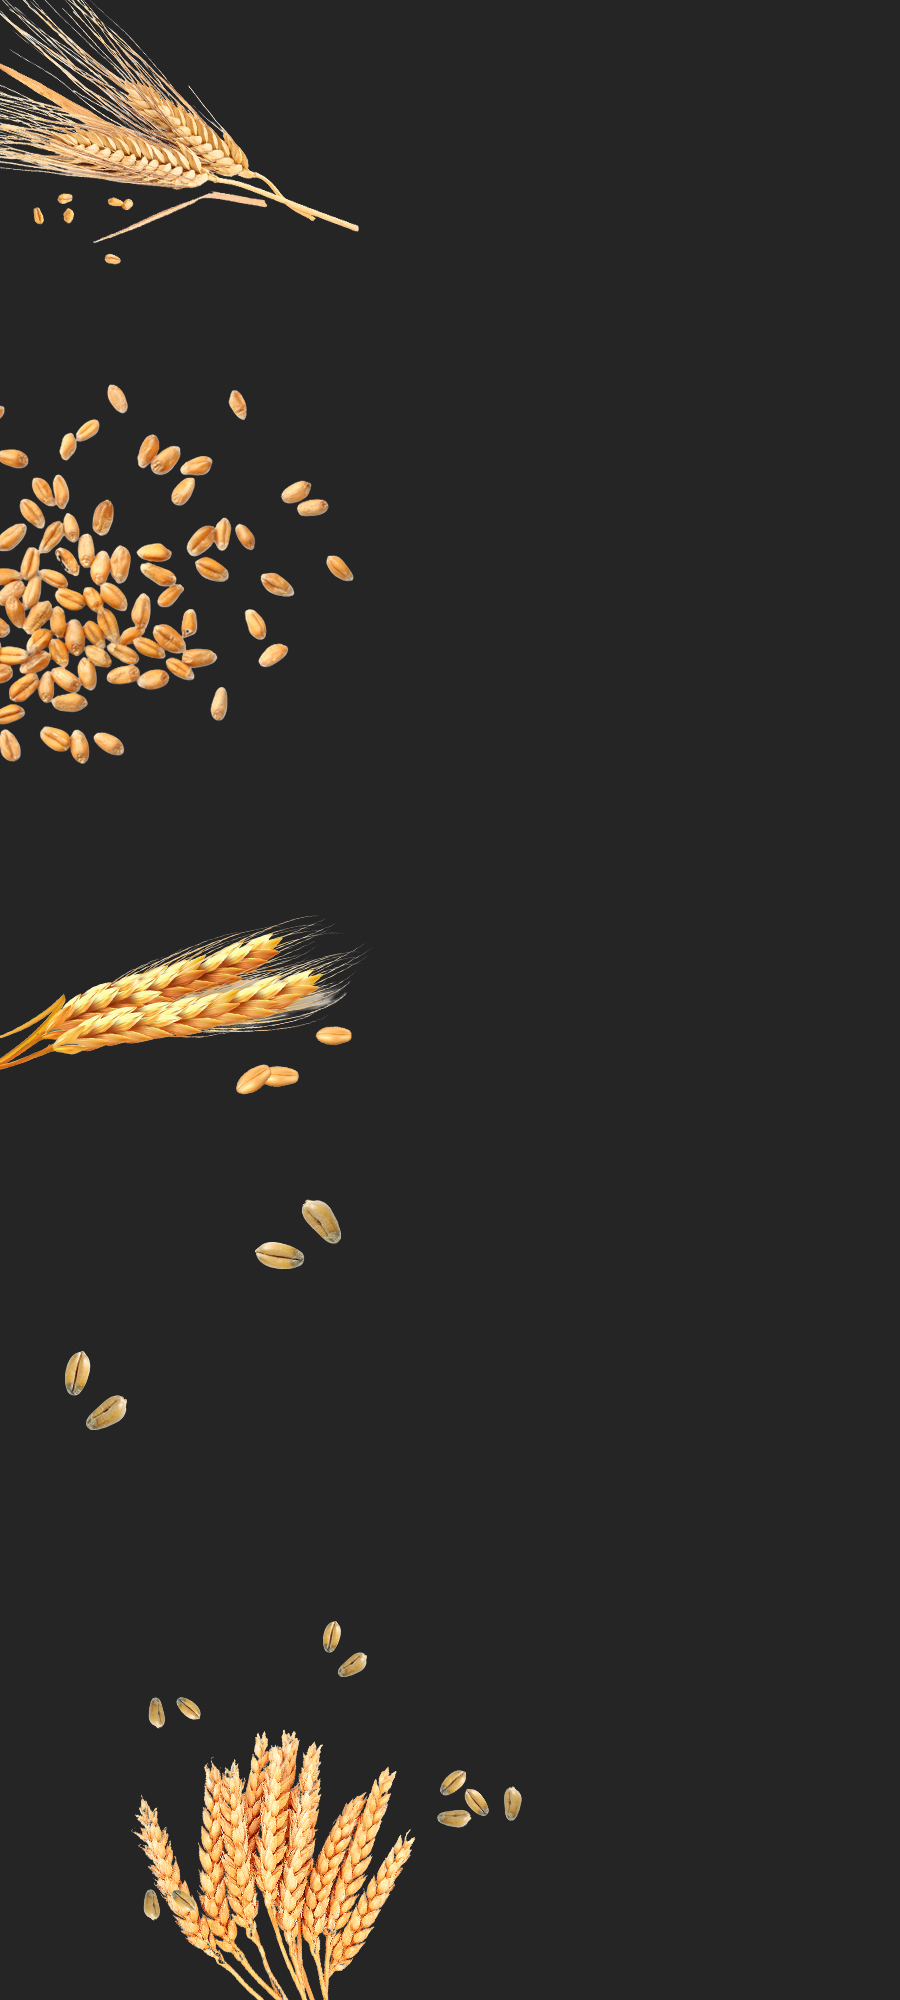
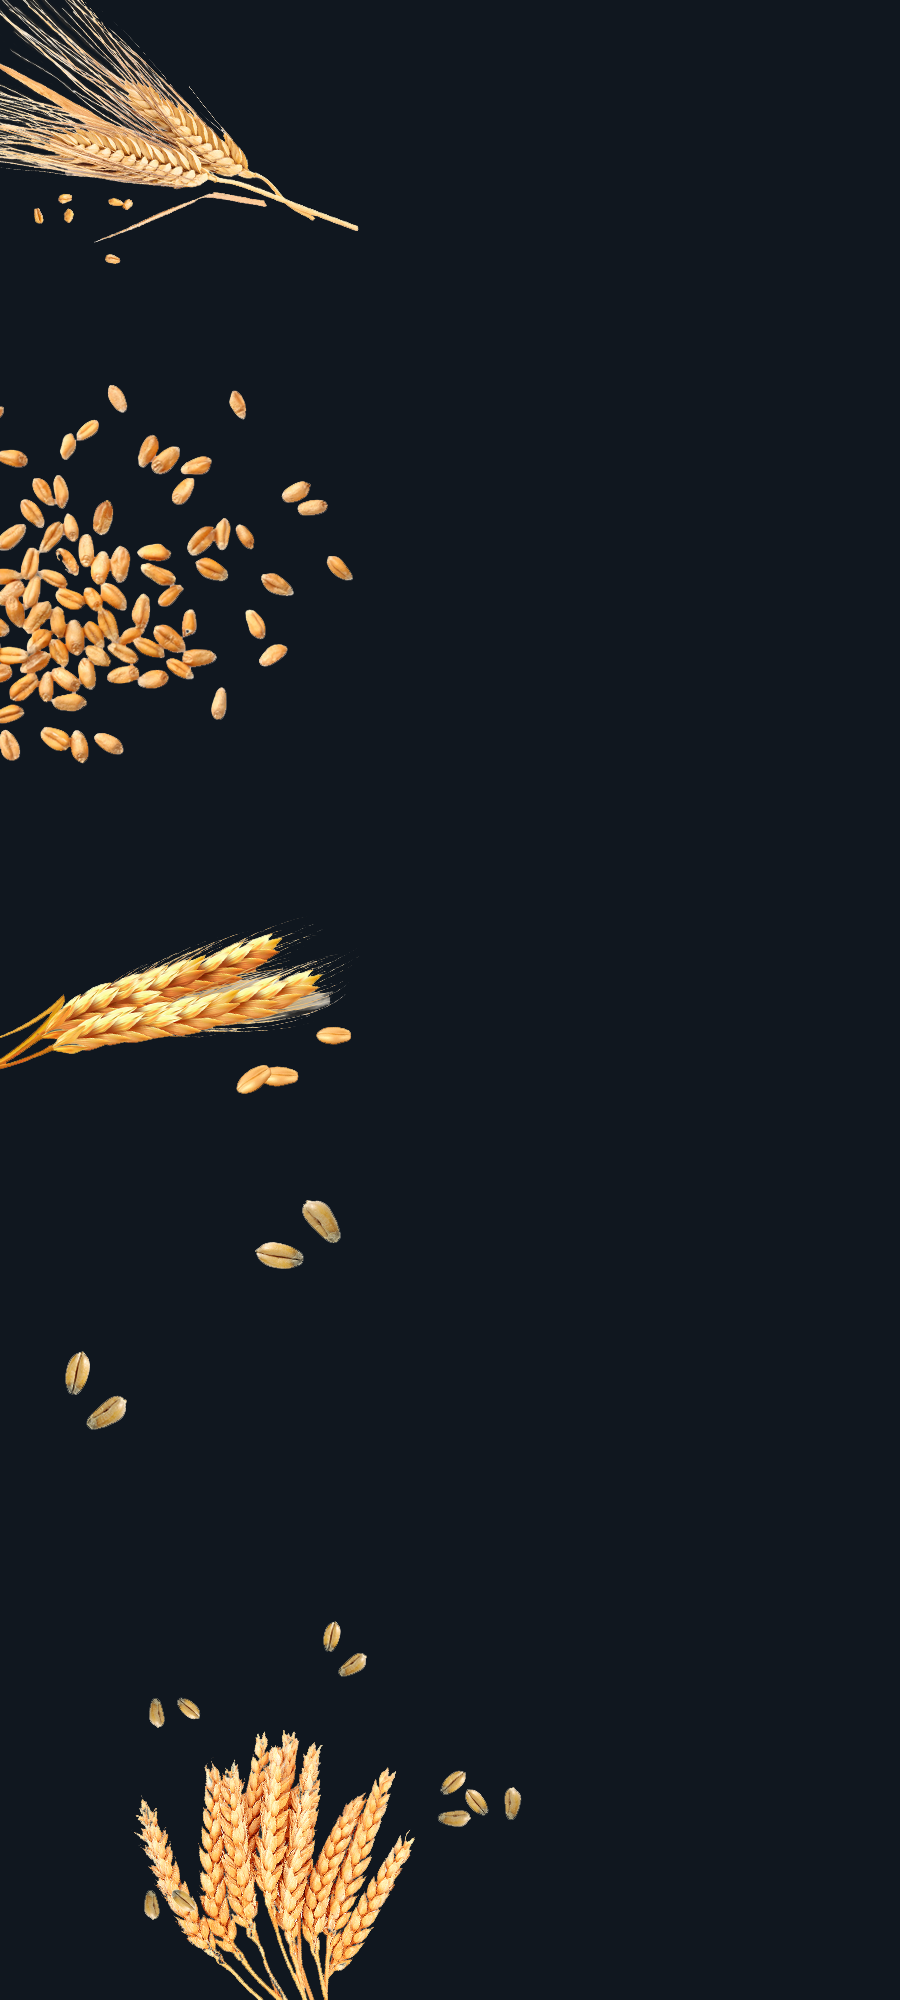
big edit

diff --git a/index.html b/index.html
@@ -145,7 +145,7 @@
 		<div class="container">
 			<div class="why__main__block">
 			<div class="why__text">
-				<div class="why__title">Почему иногда бывает так сложно выбирать  сельскохозяйственную технику?<br> - Потому что никто не предлагает то, что нужно конкретно вам.<br><br>
+				<div class="why__title">Почему иногда бывает так сложно выбирать  сельскохозяйственную технику?<br> Потому что никто не предлагает то, что нужно конкретно вам.<br><br>
 					Давайте исправлять
 				</div>
 				<div class="why__blocks">	
@@ -191,12 +191,13 @@
 	</div>
 	<!-- why end -->
 	<!-- main -->
+
 	<div class="main">
+			<div class="main__title center lime notgigantic" id="goto"><b>
+					Но давайте сначала разберем, <br> почему эти тележки для жатки идеальны <br>по соотношению цены и качества.
+				</b></div>	<br>
 		<div class="container">
-				<div class="main__title center lime notgigantic" id="goto"><b>
-					Но давайте сначала разберем,<br> почему эти тележки для жатки идеальны по соотношению цены и качества.
-				</div>	
-				<div class="main__title center bold big">Вы тратите миллионы на полный комплект сельхозтехники: комбайны, тракторы, жатки и т.д. Не говоря уже об удобрениях, зарплатах и налогах. <br>   Поэтому, мы понимаем, что за тележку для жатки - вам не хочется переплачивать. Она должна быть простой, доступной, но абсолютно надежной. Помня об этом, мы создавали эти тележки.</b></div>
+				<div class="main__title center bold big"><b>Вы тратите миллионы на полный комплект сельхозтехники: комбайны, тракторы, жатки и т.д. Не говоря уже об удобрениях, зарплатах и налогах. <br>   Поэтому, мы понимаем, что за тележку для жатки вам не хочется переплачивать. Она должна быть простой, доступной, но абсолютно надежной. Помня об этом, мы создавали эти тележки.</b></div>
 				<div class="main__general">
 					<div class="main__image">
 						<img src="img/main1.png" alt="">
@@ -261,23 +262,15 @@
 	<div class="review">
 		<div class="container">
               <div class="review__info">
-			
-			<div class="akif__imageblock">
-				<div class="review__image">
-				<img src="img/user.png" alt="">
-				</div>
-				<div class="akif__description">
-				Дмитрий Бобров, дилер CNH<br><span style="font-family:Arial"> +7 985 845 99 18</span>
-				</div>
 
-			</div>
 			<div class="akif__center">
 			<div class="akif__descript">
-				<div class="bold lime"><span class="gigantic">"</span> У нас много поставщиков сельхозтехники, но тележки для жатки мы берем в ГК Промхолдинг.</div>
-Мы закупали много техники в Башкирии и в г. Орел, кроме того, на юге России много поставщиков тележек для жатки. Но с Эльдаром из ГК Промхолдинг мы работаем давно и тележки берем у них из-за сроков, цен и качества. Кроме того, есть такая важная вещь, как человеческое обслуживание – и это еще одно ваше преимущество.<span class="lime gigantic">"</span>
-
-
+				<div class="bold lime"> У нас много поставщиков сельхозтехники, но тележки для жатки мы берем в ГК Промхолдинг.</div>
+Мы закупали много техники в Башкирии и в г. Орел, кроме того, на юге России много поставщиков тележек для жатки. Но с Эльдаром из ГК Промхолдинг мы работаем давно и тележки берем у них из-за сроков, цен и качества. Кроме того, есть такая важная вещь, как человеческое обслуживание – и это еще одно ваше преимущество.
 			</div>
+							<div class="review__description">
+				Дмитрий Бобров, дилер CNH +7 985 845 99 18
+				</div>
 		</div>
   		</div>
 		</div>
@@ -287,7 +280,7 @@
 	<div class="infoblock">
 		<div class="container">
 		<h2 class="infoblock__title notgigantic">
-			Тележки универсальны,  ширина захвата от 5 до 12 метров.  Подойдут для любого производителя и типа жаток.
+			Тележки универсальны, ширина захвата от 5 до 12 метров.  Подойдут для любого производителя и типа жаток.
 		</h2>
 		<div class="infoblock__table">
 			<table>
@@ -387,21 +380,14 @@
 		<div class="container">
               <div class="review__info">
 			
-			<div class="akif__imageblock">
-				<div class="review__image">
-				<img src="img/user.png" alt="">
-				</div>
-				<div class="akif__description">
-				ИП Ляховский Максим <br><span style="font-family:Arial">+7 951 513 90 05</span>
-				</div>
-
-			</div>
 			<div class="akif__center">
 			<div class="akif__descript">
-				<div class="bold lime"><span class="gigantic">"</span> По рекомендации соседа взял себе одну тележку, одну уборку уже сделал. </div>
-Искал тележки для жатки и первый барьер, с которым я столкнулся – это цена – больше полумиллиона за тележку. Но оказалось, что у мой сосед купил в 2 раза дешевле, а по качеству ничем не хуже. По его рекомендации взял себе одну тележку. Уборку по зерновым уже сделали, осталось еще по подсолнухам. Спасибо, все идет хорошо. <span class="lime gigantic">"</span>
-
+				<div class="bold lime center">По рекомендации соседа взял себе одну тележку, одну уборку уже сделал. </div>
+Искал тележки для жатки и первый барьер, с которым я столкнулся – это цена – больше полумиллиона за тележку. Но оказалось, что у мой сосед купил в 2 раза дешевле, а по качеству ничем не хуже. По его рекомендации взял себе одну тележку. Уборку по зерновым уже сделали, осталось еще по подсолнухам. Спасибо, все идет хорошо. 
 			</div>
+				<div class="review__description">
+				ИП Ляховский Максим +7 951 513 90 05
+				</div>
 		</div>
   		</div>
 		</div>

diff --git a/css/style.css b/css/style.css
@@ -48,7 +48,7 @@ body{
 	min-height: 100vh;
 	max-width: 100%;
 	overflow: hidden;
-	background-color: #121212eb;
+	background-color: #10171f;
 	color: white;
 	display: flex;
 	flex-direction: column;
@@ -330,8 +330,6 @@ body{
 /* why */
 .why{
 	margin-top: 130px;
-	background: url('../img/backs.jpg');
-	background-repeat: no-repeat;
 }
 
 .why__main__block{
@@ -443,7 +441,7 @@ body{
 /* main */
 .main {
 	text-align: center;
-	margin-top: 120px;
+	margin-top: 140px;
 
 }
 .main .container {
@@ -462,10 +460,13 @@ box-shadow: 0px 0px 16px 16px rgba(255, 255, 255, 0.4);
 	font-weight: bold;
 }
 .main__title{
+	width: 90%;
 	font-size: 24px;
 	font-weight: 400;
 	margin-bottom: 30px;
 	flex: 1 1 50%;
+	margin-right: auto;
+	margin-left: auto;
 	text-align: justify;
 
 }
@@ -636,20 +637,38 @@ box-shadow: 0px 0px 16px 16px rgba(255, 255, 255, 0.4);
 /* footer end */
 /* review */
 .review{
-	margin-top: 120px;
+	margin: 150px 0px;
 	margin-bottom: 120px;
-
 }
-.review .container{
+/*.review .container{
 	border: 5px solid transparent;
   	border-image: linear-gradient(to left top,#6dce0e 10%,  transparent 30%, transparent 70%, #6dce0e 90%);
  	border-image-slice: 1;
 	border-radius: 10px;
+}*/
+.review .container:before{
+	content:'';
+	background: url('../img/leftquote.svg');
+	padding: 50px 60px;
+	background-size: cover;
+
+}
+.review .container:after{
+	content:'';
+	background: url('../img/rightquote.svg');
+	padding: 50px 60px;
+	position: relative;
+	left: 90%;
+	background-size: cover;
 }
 .review__info{
 	display: flex;
 	padding: 60px 70px;
 
+}
+.review__description{
+	font-size: 24px;
+	margin-top: 20px;
 }
 .review__image{
 	margin-bottom: 20px;
@@ -972,7 +991,7 @@ td {
 
 /* teleg */
 .teleg {
-	margin-top: 230px;
+	margin-top: 270px;
 	margin-bottom: 150px;
 }
 .teleg .container{
@@ -994,7 +1013,7 @@ td {
 	font-size: 32px;
 	line-height: 35px;
 	position: relative;
-	top: -180px;
+	top: -210px;
 	left: 70px;
 }
 .gigantic{
